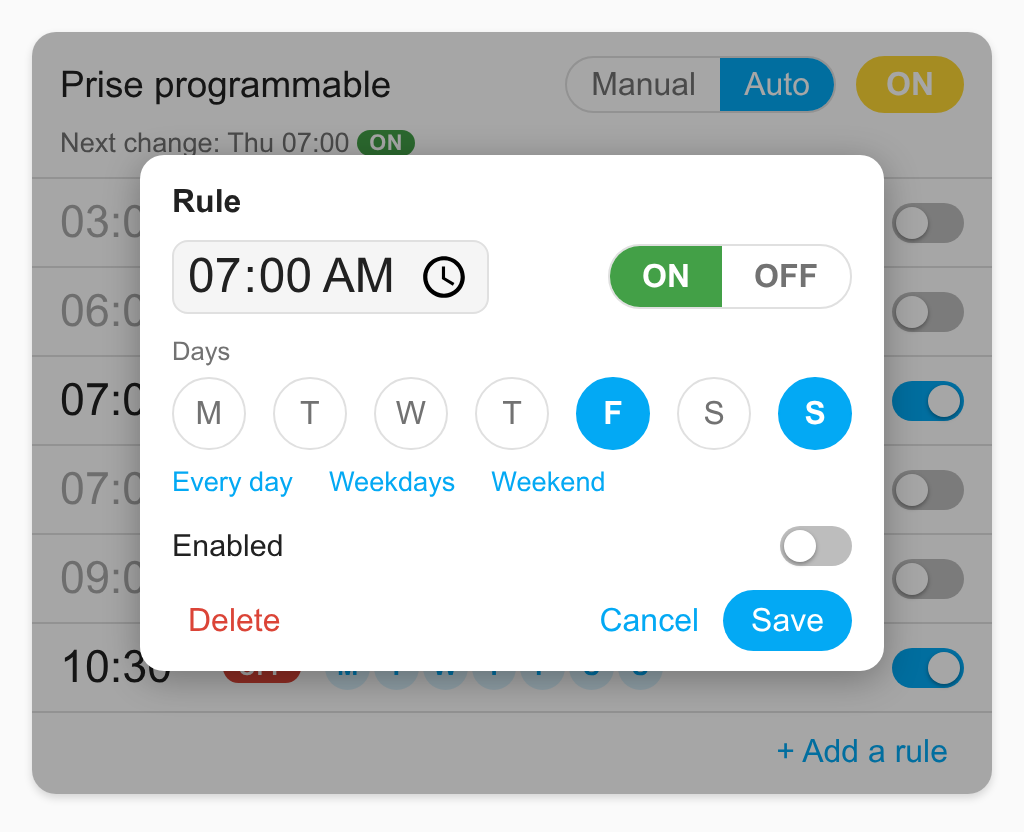
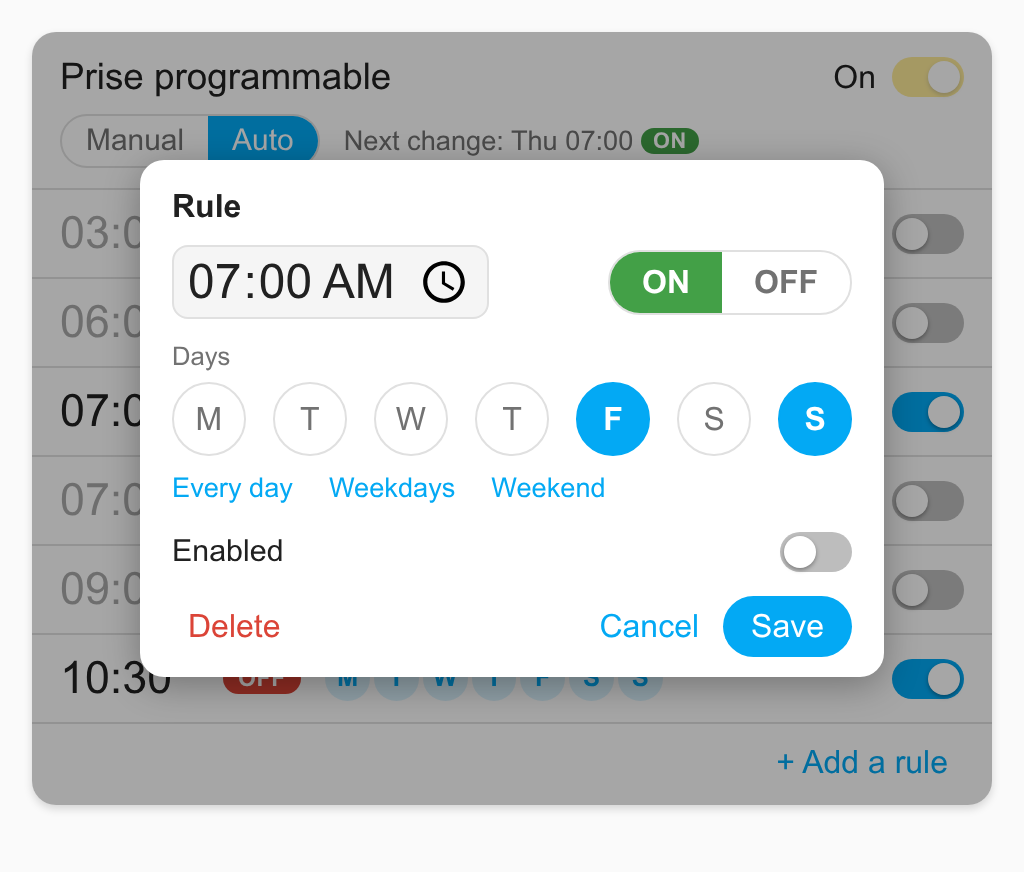
State of the device as a switch, locked in auto mode [release]
- The ON/OFF button is replaced by the state in words and a switch (its position is the state):
  usable in manual mode, greyed and locked in auto mode, where the device follows the schedule.
- Manual / Auto moves to the second line (room on phones).

diff --git a/ha-weekly-schedule-card.js b/ha-weekly-schedule-card.js
@@ -35,7 +35,8 @@ const STRINGS = {
     days_short: ['Mon', 'Tue', 'Wed', 'Thu', 'Fri', 'Sat', 'Sun'],
     days_letter: ['M', 'T', 'W', 'T', 'F', 'S', 'S'],
     days_text: ['Monday', 'Tuesday', 'Wednesday', 'Thursday', 'Friday', 'Saturday', 'Sunday'],
-    manual: 'Manual', auto: 'Auto',
+    manual: 'Manual', auto: 'Auto', is_on: 'On', is_off: 'Off',
+    auto_locked: 'Auto mode: the device follows the schedule',
     manual_note: 'Manual mode: the schedule is ignored',
     override: 'Manual change until the next change of the schedule', override_chip: 'Override',
     next_change: 'Next change:', none: 'none',
@@ -55,7 +56,8 @@ const STRINGS = {
     days_short: ['lun.', 'mar.', 'mer.', 'jeu.', 'ven.', 'sam.', 'dim.'],
     days_letter: ['L', 'M', 'M', 'J', 'V', 'S', 'D'],
     days_text: ['lundi', 'mardi', 'mercredi', 'jeudi', 'vendredi', 'samedi', 'dimanche'],
-    manual: 'Manuel', auto: 'Auto',
+    manual: 'Manuel', auto: 'Auto', is_on: 'Allumée', is_off: 'Éteinte',
+    auto_locked: 'Mode auto : la prise suit le programme',
     manual_note: 'Mode manuel : le programme est ignoré',
     override: 'Changement manuel jusqu\'au prochain changement du programme', override_chip: 'Forçage',
     next_change: 'Prochain changement :', none: 'aucun',
@@ -325,13 +327,16 @@ class WeeklyScheduleCard extends BaseElement {
       : this._writes.size ? `<div class="status">${this._t('saving')}</div>` : '';
     const bad = unreadable.length ? `<div class="status err">${this._t('unreadable')} ${unreadable.map((i) => this._t('days_text')[i]).join(', ')}</div>` : '';
 
+    // State of the device, as a switch (its position is the state): usable in manual mode, shown only in auto mode
+    const auto = mode === 'auto';
+    const power = `<label class="power ${on ? 'on' : ''} ${auto ? 'locked' : ''}" title="${auto ? this._t('auto_locked') : ''}">
+        <span>${on ? this._t('is_on') : this._t('is_off')}</span>
+        <span class="switch"><input type="checkbox" data-act="toggle" aria-label="${esc(title)}" ${on ? 'checked' : ''}
+          ${auto ? 'disabled' : ''}><span></span></span></label>`;
+
     this.shadowRoot.innerHTML = `${STYLE}<ha-card>
-      <div class="head">
-        <div class="title">${esc(title)}</div>
-        ${modeCtl}
-        <button class="power ${on ? 'on' : ''}" data-act="toggle" title="${esc(this._config.entity)}">${on ? 'ON' : 'OFF'}</button>
-      </div>
-      <div class="info">${info}</div>
+      <div class="head"><div class="title">${esc(title)}</div>${power}</div>
+      <div class="info">${modeCtl}${info}</div>
       <div class="rules ${mode === 'manual' ? 'dim' : ''}">${rows || `<div class="empty">${this._t('no_rules')}</div>`}</div>
       ${bad}${status}
       <div class="foot"><button class="txt" data-act="add">+ ${this._t('add_rule')}</button></div>
@@ -355,7 +360,10 @@ class WeeklyScheduleCard extends BaseElement {
   _bind() {
     const root = this.shadowRoot;
     root.querySelectorAll('[data-mode]').forEach((b) => b.addEventListener('click', () => this._setMode(b.dataset.mode)));
-    root.querySelector('[data-act="toggle"]')?.addEventListener('click', () => this._toggle());
+    root.querySelector('[data-act="toggle"]')?.addEventListener('click', (ev) => {
+      ev.preventDefault();         // the switch moves when the device confirms its new state
+      this._toggle();
+    });
     root.querySelector('[data-act="add"]')?.addEventListener('click', () => this._open(null));
     root.querySelectorAll('[data-rule]').forEach((row) => row.addEventListener('click', (ev) => {
       const rule = this._rules[Number(row.dataset.rule)];
@@ -498,10 +506,12 @@ const STYLE = `<style>
   .seg { display: inline-flex; border: 1px solid var(--divider-color); border-radius: 16px; overflow: hidden; flex: none; }
   .seg button { border: 0; background: none; color: var(--secondary-text-color); padding: 4px 12px; }
   .seg button.sel { background: var(--primary-color); color: var(--text-primary-color, #fff); }
-  .power { min-width: 54px; border: 1px solid var(--divider-color); border-radius: 16px; padding: 4px 10px;
-    background: none; color: var(--secondary-text-color); font-weight: 600; flex: none; }
-  .power.on { background: var(--wsc-on); border-color: var(--wsc-on); color: var(--text-primary-color, #fff); }
-  .info { display: flex; flex-wrap: wrap; align-items: center; gap: 6px 12px; min-height: 18px; margin: 6px 0 8px; font-size: .85em; color: var(--secondary-text-color); }
+  .power { display: inline-flex; align-items: center; gap: 8px; flex: none; color: var(--secondary-text-color); cursor: pointer; }
+  .power.on { color: var(--primary-text-color); font-weight: 500; }
+  .power.locked { cursor: default; }
+  .power .switch input:checked + span { background: var(--wsc-on); }
+  .info { display: flex; flex-wrap: wrap; align-items: center; gap: 6px 12px; min-height: 18px; margin: 8px 0 10px; font-size: .85em; color: var(--secondary-text-color); }
+  .info .seg { font-size: 1.1em; }
   .chip { border-radius: 10px; padding: 0 8px; }
   .chip.warn { background: var(--warning-color, #ff9800); color: #fff; }
   .rules { margin: 0 -14px; border-bottom: 1px solid var(--divider-color); }
@@ -526,6 +536,8 @@ const STYLE = `<style>
     background: #fff; box-shadow: 0 1px 2px rgba(0, 0, 0, .35); transition: transform .15s; }
   .switch input:checked + span { background: var(--primary-color); }
   .switch input:checked + span::before { transform: translateX(16px); }
+  .switch input:disabled { cursor: default; }
+  .switch input:disabled + span { opacity: .5; }
   .status { margin: 8px 0 0; font-size: .85em; color: var(--secondary-text-color); }
   .err { color: var(--error-color); font-size: .9em; }
   .foot { display: flex; justify-content: flex-end; margin-top: 4px; }

diff --git a/test/demo.html b/test/demo.html
@@ -1,7 +1,7 @@
 <!doctype html>
 <!-- Page d'essai hors HA : faux objet hass (entités de la prise programmable), servie par un serveur local.
      Paramètres : ?lang=en|fr  &dark=1  &mode=manual  &override=1
-     &click=rule|add|toggle|conflict  (ouvre une fenêtre ou agit, pour la capture ; résultat dans body[data-resultat]) -->
+     &click=rule|add|toggle|conflict|power  (ouvre une fenêtre ou agit, pour la capture ; résultat dans body[data-resultat]) -->
 <html>
 <head>
 <meta charset="utf-8">
@@ -12,7 +12,7 @@
     --state-switch-on-color: #fdd835; }
   :root.dark { --primary-text-color: #e1e1e1; --secondary-text-color: #9b9b9b; --divider-color: #3a3a3a;
     --card-background-color: #1c1c1c; --secondary-background-color: #2b2b2b; }
-  body { margin: 0; padding: 16px; background: #fafafa; font-family: Roboto, Arial, sans-serif; width: 480px; }
+  body { margin: 0; padding: 16px; background: #fafafa; font-family: Roboto, Arial, sans-serif; max-width: 480px; }
   :root.dark body { background: #111; }
 </style>
 <script>
@@ -68,6 +68,12 @@
       r.querySelectorAll('[data-rule]')[3].querySelector('input').click();
       setTimeout(() => resultat({ ecrits: ecrits.map((a) => a[2]), regles: card.shadowRoot.querySelectorAll('[data-rule]').length,
         statut: card.shadowRoot.querySelector('.status')?.textContent ?? '' }), 1000);
+    }
+    if (click === 'power') {           // interrupteur de la prise : actif en manuel, inactif (grisé) en auto
+      const sw = r.querySelector('[data-act="toggle"]');
+      sw.click();
+      setTimeout(() => resultat({ desactive: sw.disabled, ecrits: ecrits.map((a) => `${a[0]}.${a[1]}`),
+        etat: card.shadowRoot.querySelector('.power span').textContent }), 1000);
     }
     if (click === 'conflict') {        // nouvelle règle 07:00 OFF activée le lundi : conflit avec 07:00 ON
       r.querySelector('[data-act="add"]').click();

diff --git a/README.md b/README.md
@@ -28,7 +28,8 @@ device that exposes the same per-day texts.
 - Changes are written **at once**, like in the Kasa app; the card checks that the device confirmed them.
 - An enabled rule may not switch the other way at the same time as another enabled rule on the same day (refused,
   with the day); disabled rules have no such limit. At most 20 changes per day, disabled ones included.
-- Header: ON/OFF button, **Manual / Auto** mode, override badge, next change with its action.
+- Header: state of the device as a switch (its position is the state; usable in manual mode, locked and greyed in
+  auto mode, where the device follows the schedule), **Manual / Auto** mode, override badge, next change with its action.
 - No external dependency, English and French (follows the language of Home Assistant), light and dark themes.
 
 ![Editing a rule](images/dialog.png)
